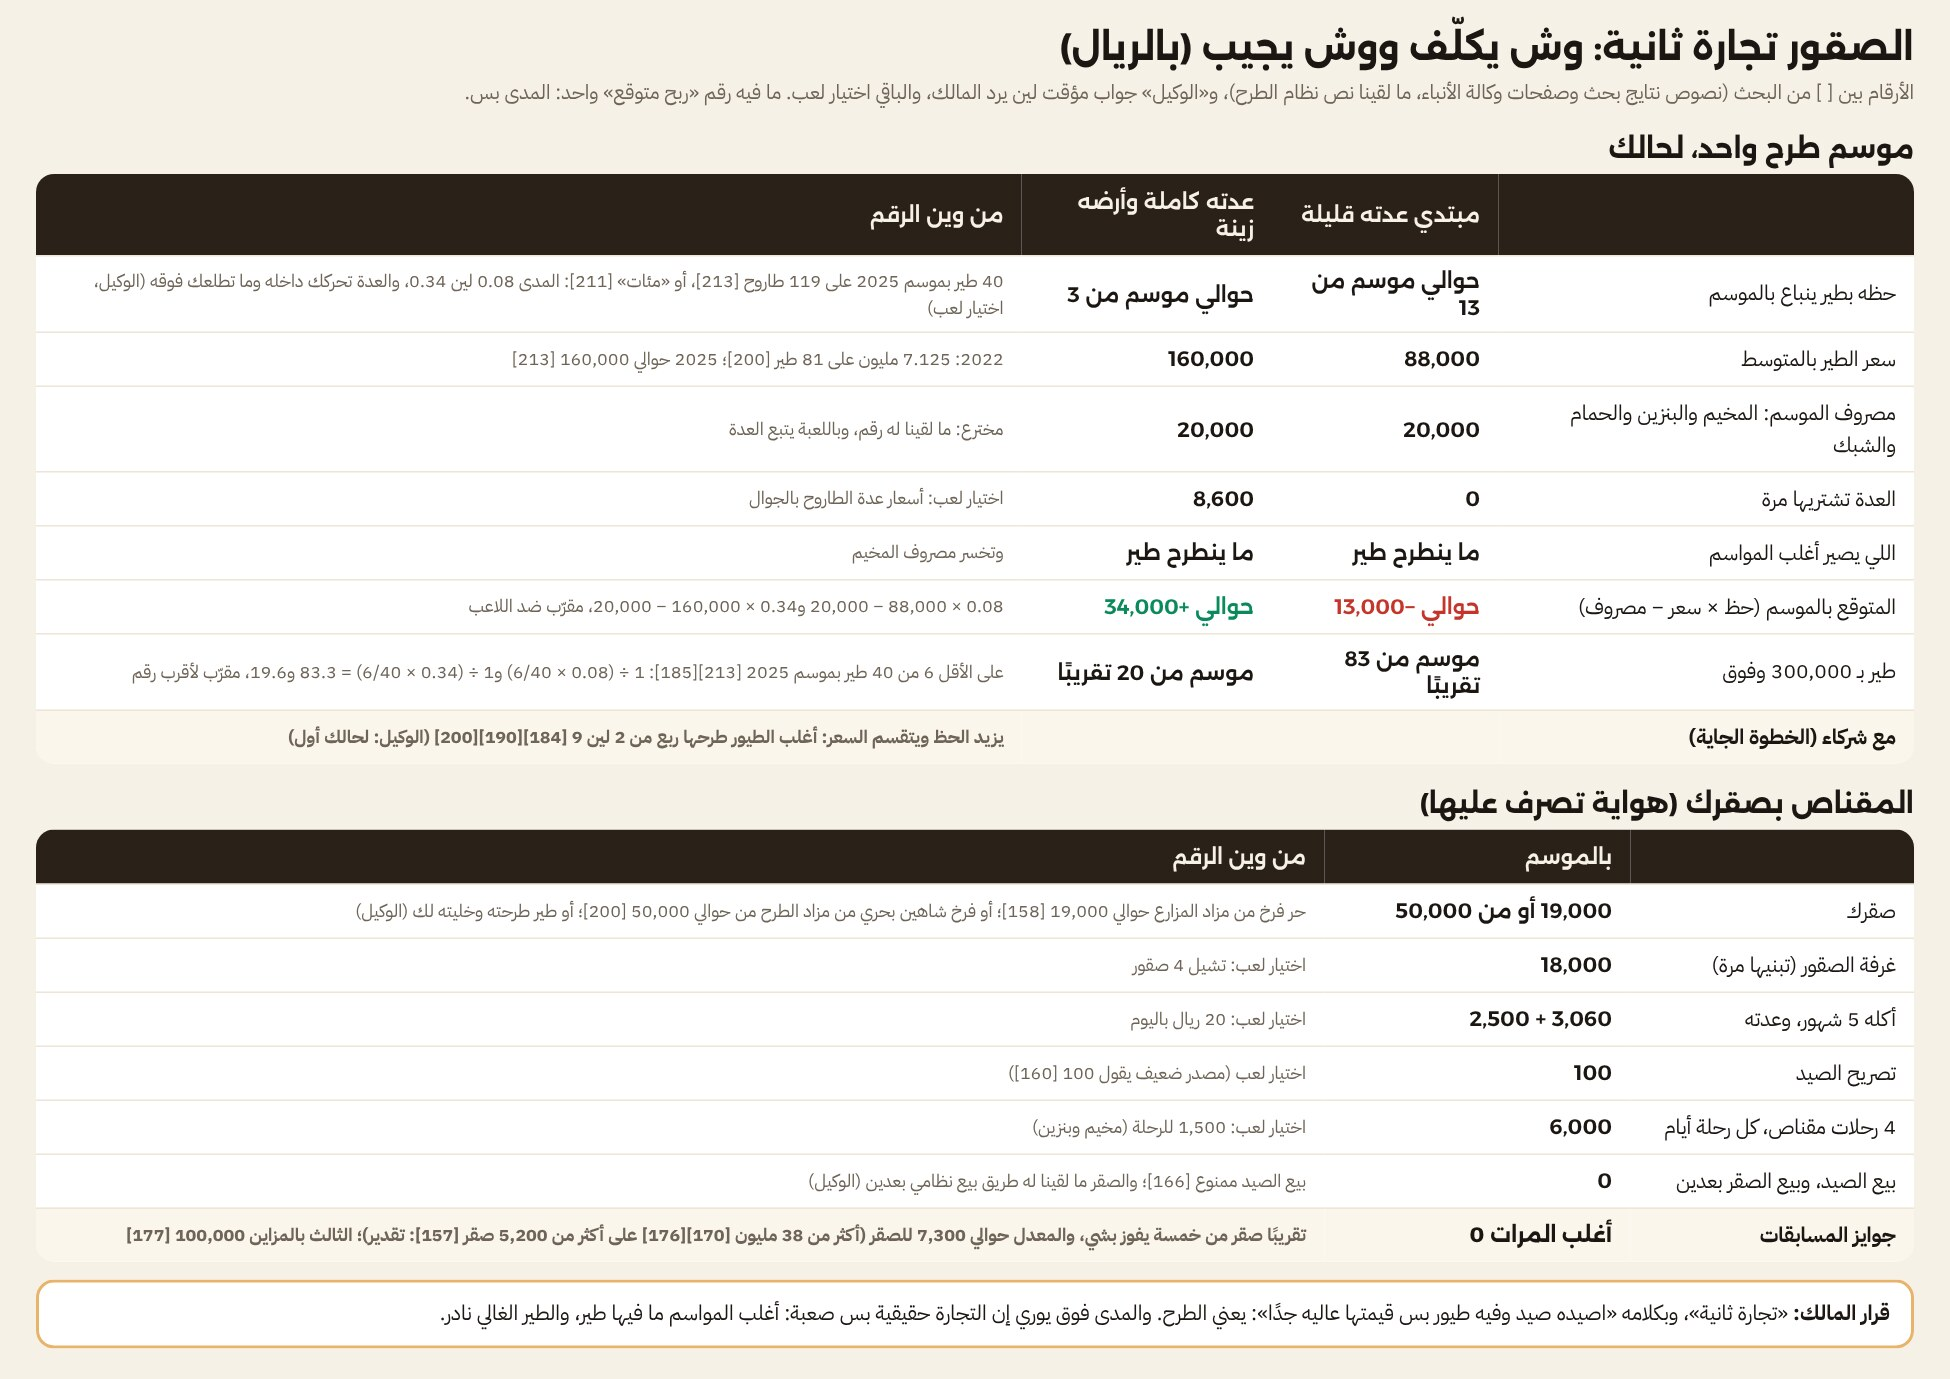
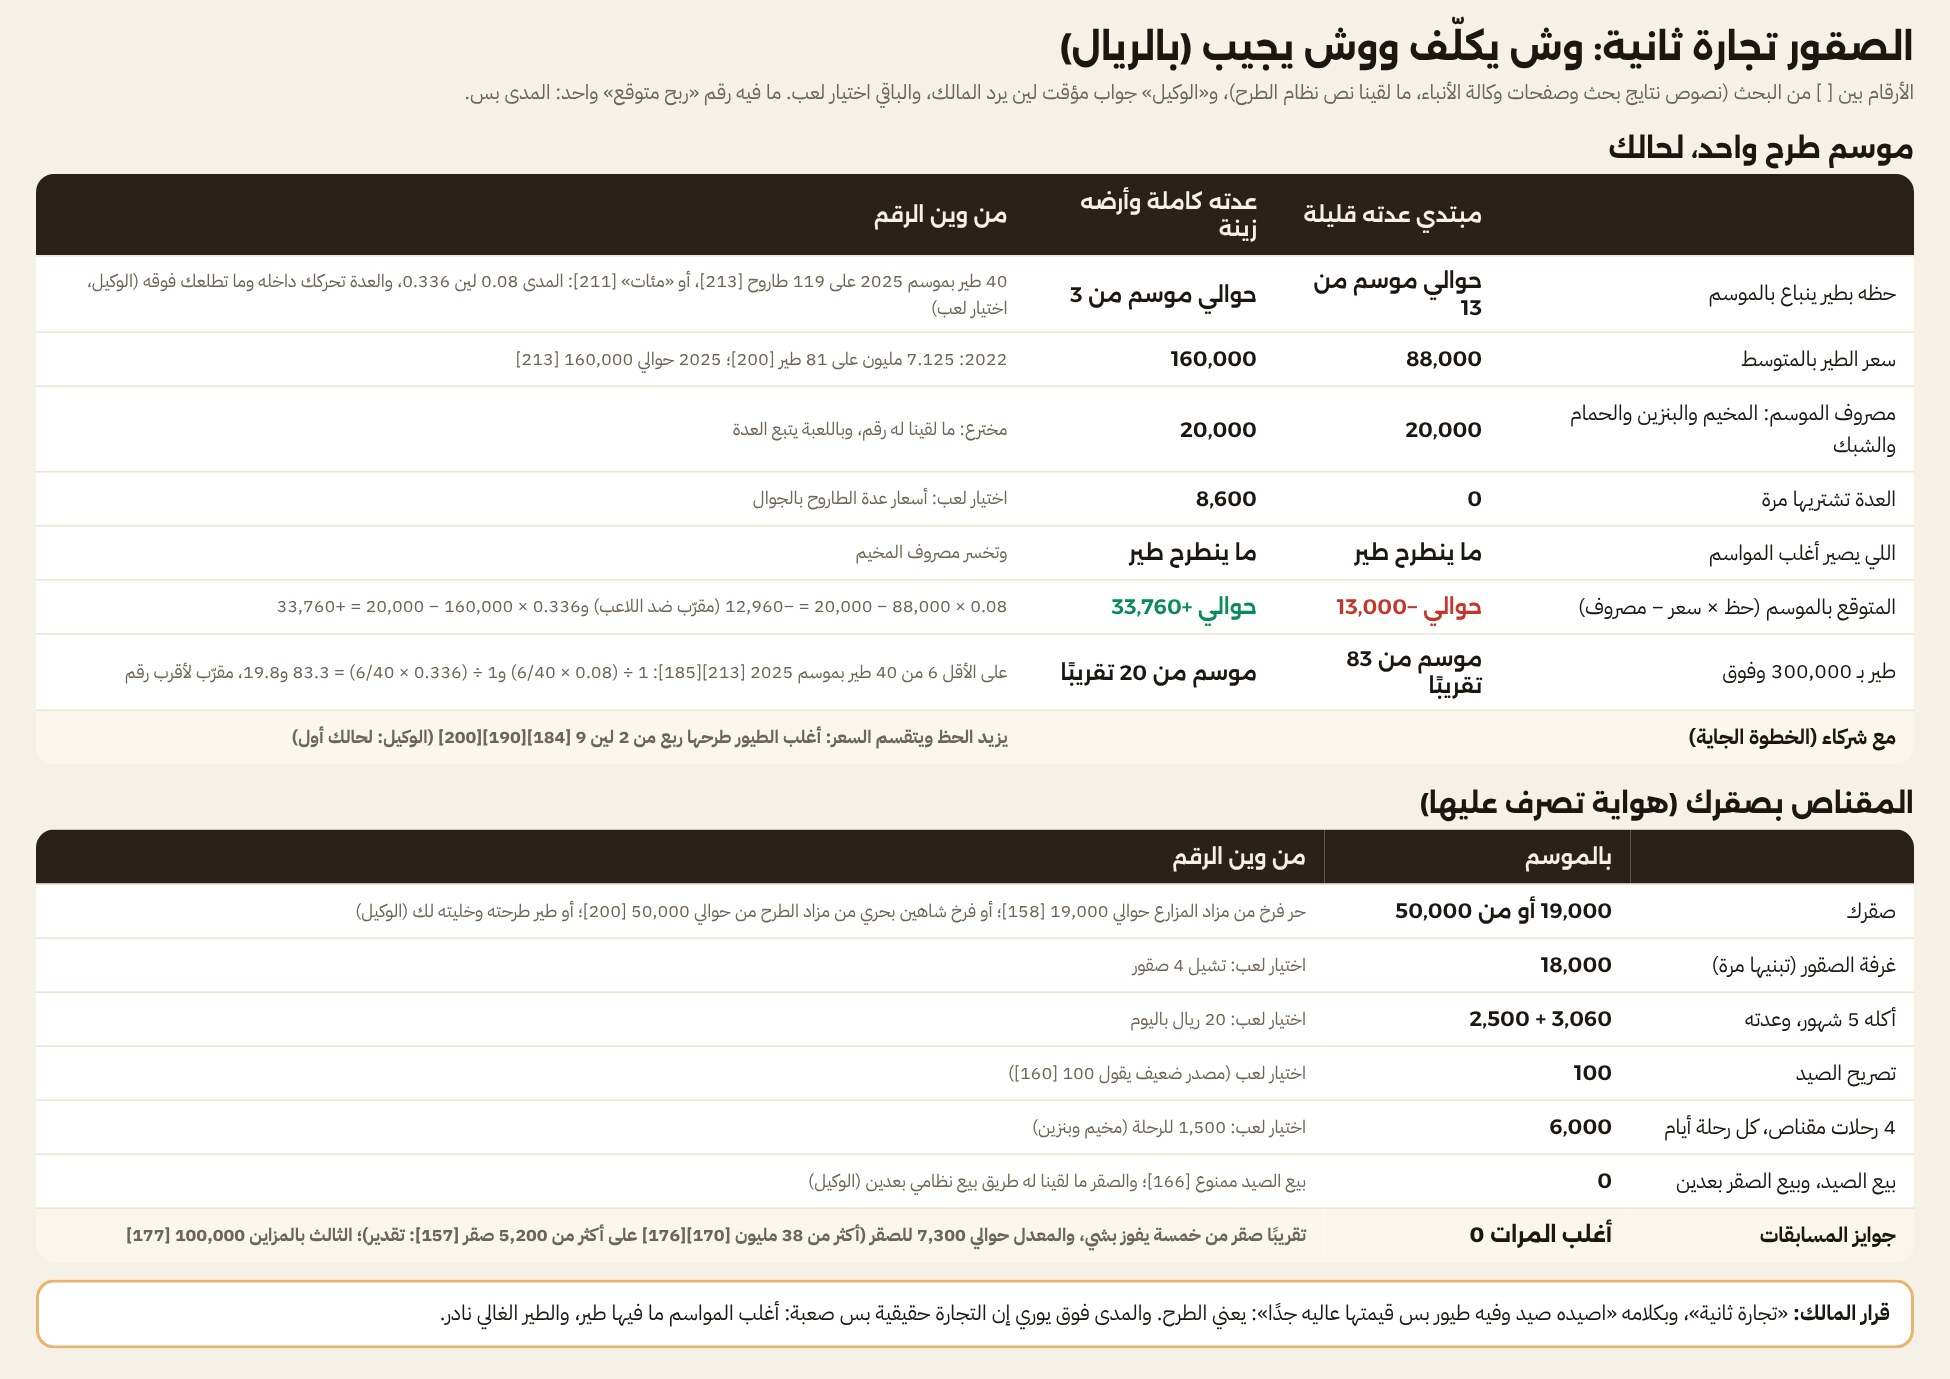
Hunting design, round 2: the trapping range from the research's corrected figures
p = 0.336 (40/119) at the top: +33,760 a season exact (was +34,000 rounded in
the player's favour), one season in 2.98, a bird of 300,000+ one in 19.8 -> 20;
the bottom stays -12,960 -> -13,000, rounded against the player.

Claude-Session: https://claude.ai/code/session_01MLonhqocXpQK4avaG2Yu99

diff --git a/design/ui/README.md b/design/ui/README.md
@@ -15,7 +15,7 @@ These mockups were reviewed by agents and approved by the owner. Only the inform
 | `phone_rush.jpg` (drawn by `phone_rush.cjs`) | **Awaiting the owner's approval (14 Nov 2026), not built; revised after review, the proxy's answers (batches 4, 4b) provisional.** Rushing (the owner: «اي شي اسويه او ابنيه اقدر اسرعه يبني بنفس اللحظة بتكلفه اعلى») in the phone's own screens, ten views: العزبة's pen being built, its approved line kept and «استعجل» after it, and the second tap («أكّد»); at ordering, «أو ابنه الحين بـ 18,000 ريال» (where that line sits is his eye); الوايت and العلف on a day the herd went short (the engine's save, 1 November: the rushed delivery makes good today's loss) and on an ordinary day (no rush: «الطلبة العادية توصل قبل شرب حلالك بكرة»); الحراج's camel on the truck, «توصل الحين», priced by the part of the game's day left (the ownership day unchanged); the rush the money does not cover (cash only); البنك's «الاستعجال». Every price a game choice. Notes in `docs/proposals/rush_and_calendar.md`. |
 | `phone_calendar.jpg` (drawn by `phone_calendar.cjs`) | **Awaiting the owner's approval (14 Nov 2026), not built; revised after review, the proxy's answers provisional.** «التقويم», an optional ninth app (the owner: «خليني اقدر انتقل بين المواسم بنفسي يعني تقويم وهكذا موجود اختياري»), fourteen views: the home screen as built with التقويم; the year's twelve strips and what is coming; a season picked; the card before the jump (the stores against the days, filled by orders; what falls due; the standing order and the vet's contract to set; every stop; two taps; forward only); الوايت's standing order; العزبة's first vet screen («يبي علاج», the engine's quote) and the card that waits for a sick calf; the jump under way; a store's stop and the summary (played on the fast clock, **in a run made before the registration stop existed: under the revised stops that jump would first stop on 8 October, three days before مزاين حائل's registration closes; these two views are to be re-made from the built thing; captioned so under the two frames in the picture**); the stop on his round's day at 6:00 and المزاين's own day screen with no stage told. Notes, measurements, the one mechanism for being away, in `docs/proposals/rush_and_calendar.md`. |
 | `phone_falcon.jpg` (drawn by `phone_falcon.cjs`) | **Awaiting the owner's approval (round 2, 14 Nov 2026), not built.** Falcons as a second business by trapping, in «نادي الصقور» and «تصريح الصيد», fifteen views: the home with ten apps; the auctions told apart (the trapping auction 1 Oct–30 Nov sells only the passage peregrine of the year and is where the player sells his bird; the exhibition's imported sakers; the breeders' auction in August): the three routes to his own falcon, each in its month (the proxy's answer); tonight's lots as bidders see them; الطرح with the permit and the gear (prices game choices; where gear is bought is the owner's question); entering a trapped bird and the hammer (an example); his falcons and how each came (a kept trapped bird, resale not offered: the proxy's); الدعو; the festival and its rules; the results; the two permits with what is banned and what is released (the proxy's lines); a violation. The saker is task T11's render (awaiting approval); the peregrine a stand-in. Notes in `docs/proposals/hunting_season_design.md`. |
-| `../hunt/season_calendar.jpg`, `../hunt/season_money.jpg` (drawn by `../hunt/season.cjs`) | **Awaiting the owner's approval (round 2).** The year with the trapping season, the passage and the three routes against the camel year; a season of trapping alone as a range (the proxy's range: about one season in 13 to one in 3; about −13,000 to +34,000 with the camp's 20,000 invented; no single expected figure) beside falconry's costs and the contests' prizes. |
+| `../hunt/season_calendar.jpg`, `../hunt/season_money.jpg` (drawn by `../hunt/season.cjs`) | **Awaiting the owner's approval (round 2).** The year with the trapping season, the passage and the three routes against the camel year; a season of trapping alone as a range (the proxy's range: about one season in 13 to one in 3; about −13,000 to +33,760 with the camp's 20,000 invented; no single expected figure) beside falconry's costs and the contests' prizes. |
 | `../hunt/trip_01..21_*.jpg`, `../hunt/trip_board.jpg` (drawn by `../hunt/trip.cjs`) | **Awaiting the owner's approval (round 2).** Being away for days, one way for the falcon trip and the trapping camp (the owner's word of 14 Nov): the grounds' pins and the card before leaving, the falcons' room and its card, the drive, the camps and their cards, the cast and the flight, the result, the rare lost falcon and the tracker, dawn through the binoculars, the pigeon and the stoop, the bird in the net, a sellable peregrine, a saker released (the proxy's line), an empty day handing the game back, the warning buttons that do not act, the trip's summary. On real screenshots of the game; what is drawn is said under each frame; T11's birds where large (awaiting approval), the peregrine and the camp's things stand-ins; each frame's draws in `../hunt/trip_draws.txt`. |
 
 ## The map HUD

diff --git a/docs/proposals/hunting_season_design.md b/docs/proposals/hunting_season_design.md
@@ -101,14 +101,14 @@
   bind trapping is unconfirmed), and the fines in words.
 
 **The odds and the money** (`season_money.jpg`, the proxy's range; game choices on real numbers):
-- **Chance of a sellable bird in a season alone:** 0.08 to 0.34. That is 40 birds in 2025 [213] over
+- **Chance of a sellable bird in a season alone:** 0.08 to 0.336 (40/119). That is 40 birds in 2025 [213] over
   119 trappers [213], or over «مئات» [211]. Shown as about one season in 13 (1/0.08 = 12.5, rounded
-  against the player) to one in 3.
+  against the player) to one in 3 (1/0.336 = 2.98).
 - **Mean price:** 88,000 [200] to 160,000 [213].
 - **The season's cost:** 20,000, **invented**.
-- **Expected per season:** about −13,000 to about +34,000. That is 0.08 × 88,000 − 20,000 and
-  0.34 × 160,000 − 20,000, rounded against the player.
-- **A bird of 300,000 or more:** one season in about 83 to 20. That is 1 ÷ (p × 6/40): at least 6 of
+- **Expected per season:** about −13,000 to +33,760. That is 0.08 × 88,000 − 20,000 = −12,960
+  (rounded against the player) and 0.336 × 160,000 − 20,000 = +33,760.
+- **A bird of 300,000 or more:** one season in about 83 to 20. That is 1 ÷ (p × 6/40) = 83.3 and 19.8: at least 6 of
   the 40 birds of 2025 were that dear [213][185], a floor.
 - **Partners** raise the chance and divide the price (the next step: proxy).
 - Most seasons end with nothing. No single expected figure appears anywhere.
